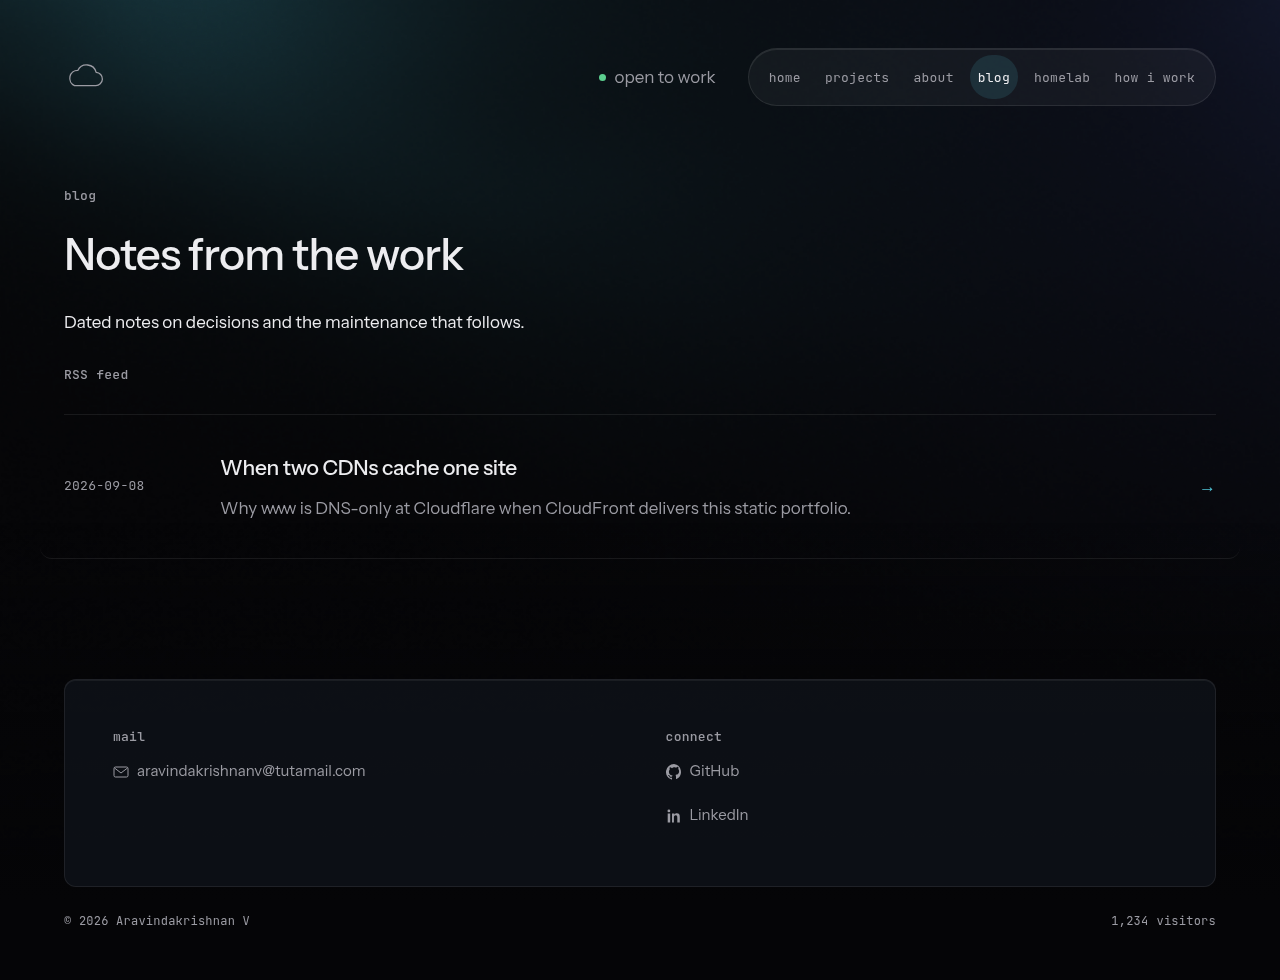
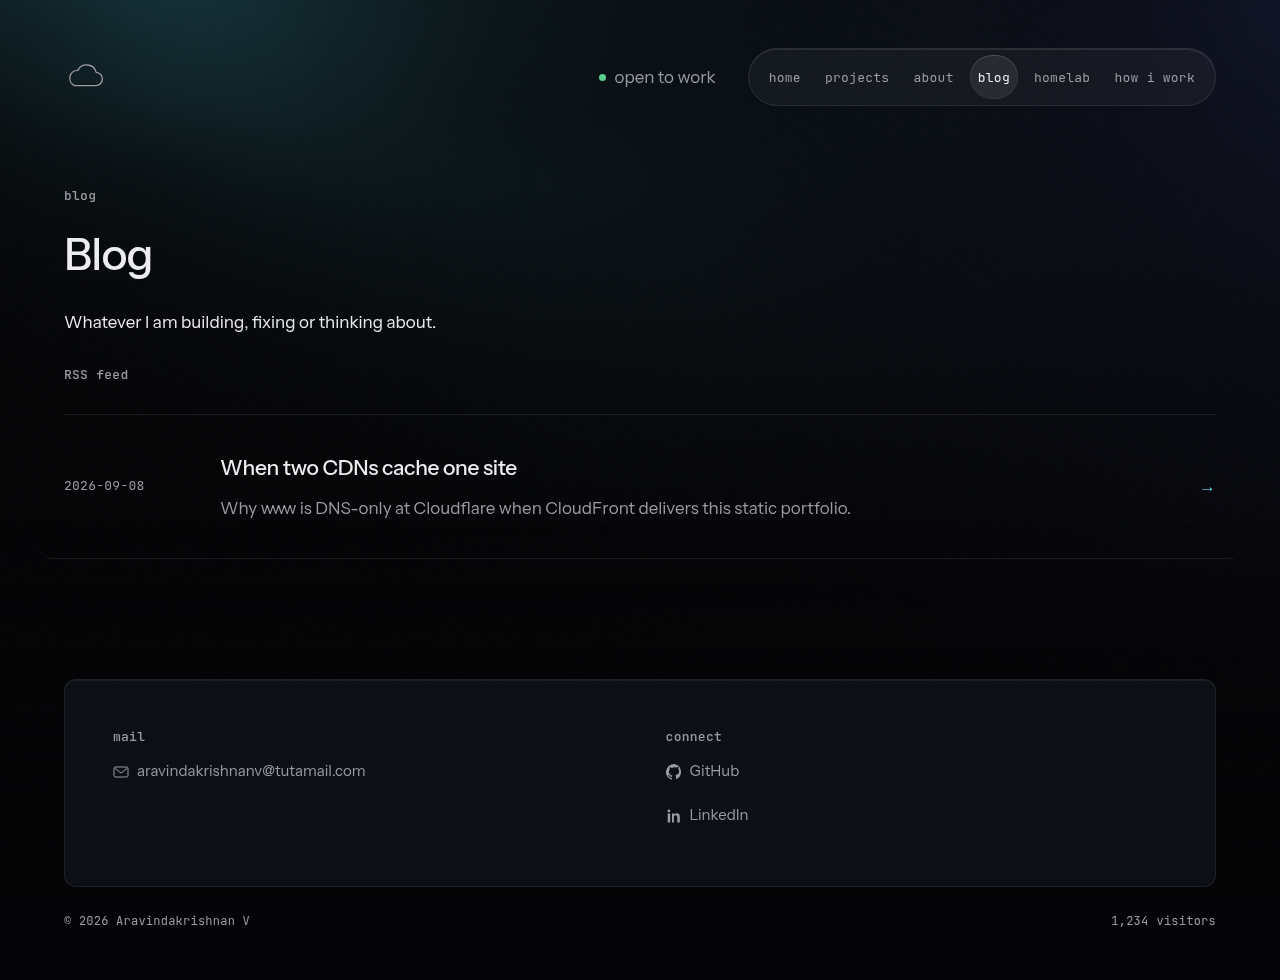
fix(design): restore the ocean glow without WebGL, use glass for the active nav item
- The ocean background is a WebGL shader with no fallback, so browsers
  without WebGL showed flat black. .ocean now carries a static CSS
  picture of the shader's two lights; the canvas paints over it where
  WebGL runs.
- The active nav item and phone menu use a frosted glass highlight
  instead of the blue fill. The menu sheet is glass but 97% opaque, so
  text stays readable where backdrop-filter does not render.
- The blog reads as a blog: Blog on Home and the blog page, a new lede,
  and a matching feed and meta description. Home's section is More.

Changed region(s): [[0.0625, 0.3061, 0.4062, 0.3367], [0.0312, 0.2449, 0.375, 0.2755]]

diff --git a/web/src/styles/global.css b/web/src/styles/global.css
@@ -23,7 +23,12 @@ body {
   z-index: 0;
   overflow: hidden;
   pointer-events: none;
-  background: var(--ink);
+  /* Static picture of the shader's two lights. The WebGL canvas paints over it opaque; without
+     WebGL or JavaScript the canvas stays transparent and this is what visitors see. */
+  background:
+    radial-gradient(70% 60% at 4% -6%, rgba(61, 168, 189, 0.34), transparent 72%),
+    radial-gradient(55% 50% at 100% -4%, rgba(66, 92, 184, 0.2), transparent 70%),
+    var(--ink);
 }
 .ocean canvas,
 .ocean-noise,
@@ -143,7 +148,12 @@ img { max-width: 100%; display: block; }
   padding-inline: 8px;
   color: var(--muted);
 }
-.nav-links a[aria-current="page"] { color: var(--text); background: var(--accent-dim); border-radius: 999px; }
+.nav-links a[aria-current="page"] {
+  color: var(--text);
+  border-radius: 999px;
+  background: rgba(255, 255, 255, 0.08);
+  box-shadow: inset 0 1px 0 rgba(255, 255, 255, 0.12), inset 0 0 0 1px rgba(255, 255, 255, 0.06);
+}
 .nav-links a:hover { color: var(--accent); }
 .status {
   display: inline-flex;
@@ -182,9 +192,12 @@ img { max-width: 100%; display: block; }
   width: min(327px, calc(100vw - 2 * var(--pad)));
   padding: 8px;
   border: 1px solid var(--hairline-strong);
-  border-radius: 12px;
-  background: var(--surface);
-  box-shadow: inset 0 1px 0 rgba(255, 255, 255, 0.06);
+  border-radius: 16px;
+  /* Opaque enough to read without blur: some browsers skip backdrop-filter. */
+  background: rgba(15, 18, 24, 0.97);
+  box-shadow: inset 0 1px 0 rgba(255, 255, 255, 0.09);
+  backdrop-filter: blur(22px) saturate(150%);
+  -webkit-backdrop-filter: blur(22px) saturate(150%);
 }
 .nav-sheet a {
   display: flex;
@@ -196,7 +209,10 @@ img { max-width: 100%; display: block; }
   font-size: 17px;
 }
 .nav-sheet a + a { border-top: 1px solid var(--hairline); }
-.nav-sheet a[aria-current="page"] { background: var(--accent-dim); }
+.nav-sheet a[aria-current="page"] {
+  background: rgba(255, 255, 255, 0.08);
+  box-shadow: inset 0 1px 0 rgba(255, 255, 255, 0.12);
+}
 .nav-sheet a:hover { color: var(--accent-strong); }
 @media (max-width: 680px) {
   .nav { padding-block: 10px; }

diff --git a/web/src/pages/feed.xml.ts b/web/src/pages/feed.xml.ts
@@ -16,6 +16,6 @@ export const GET: APIRoute = async () => {
       return `<item><title>${escapeXml(post.data.title)}</title><link>${link}</link><guid isPermaLink="true">${guid}</guid><description>${escapeXml(post.data.description)}</description><pubDate>${new Date(`${post.data.published}T00:00:00Z`).toUTCString()}</pubDate></item>`;
     })
     .join("");
-  const xml = `<?xml version="1.0" encoding="UTF-8"?><rss version="2.0"><channel><title>Aravindakrishnan V</title><link>${origin}/blog</link><description>Notes on operating cloud infrastructure.</description><atom:link xmlns:atom="http://www.w3.org/2005/Atom" href="${origin}/feed.xml" rel="self" type="application/rss+xml"/>${items}</channel></rss>`;
+  const xml = `<?xml version="1.0" encoding="UTF-8"?><rss version="2.0"><channel><title>Aravindakrishnan V</title><link>${origin}/blog</link><description>Writing by Aravindakrishnan V.</description><atom:link xmlns:atom="http://www.w3.org/2005/Atom" href="${origin}/feed.xml" rel="self" type="application/rss+xml"/>${items}</channel></rss>`;
   return new Response(xml, { headers: { "Content-Type": "application/rss+xml; charset=utf-8" } });
 };

diff --git a/DESIGN.md b/DESIGN.md
@@ -48,7 +48,7 @@ re-verified with a checker before the freeze.
 | `--text` | `#EDEDF0` | headings, body | **17.4:1** on ink |
 | `--muted` | `#9B9BA3` | secondary copy, labels | **7.4:1** on ink · 6.8:1 on surface |
 | `--accent` | `#4FC1D4` | links, active nav, metric emphasis, focus ring | **9.6:1** on ink |
-| `--accent-dim` | `rgba(79,193,212,.14)` | chip fills, selection, active nav item | — |
+| `--accent-dim` | `rgba(79,193,212,.14)` | chip fills, selection | — |
 | `--surface-2` | `#151A22` | hover and pressed rows | structure; muted **6.3:1** on it |
 | `--hairline-strong` | `rgba(255,255,255,.16)` | edges of controls (menu toggle, sheet) | — |
 | `--accent-strong` | `#7FD6E4` | accent on hover | **12.3:1** on ink |
@@ -84,6 +84,10 @@ Rules that make it safe to ship:
 
 Reference implementation: `web/src/components/Ocean.astro`, derived from the approved export.
 
+Fallback: `.ocean` also carries a static CSS picture of the shader's two lights (cyan top-left,
+blue top-right, fading to `--ink`). The WebGL canvas paints over it opaque. Without WebGL or
+JavaScript the canvas stays transparent and visitors see the still glow, never flat black.
+
 ## Type
 
 - **Instrument Sans** — headings, body, UI. **JetBrains Mono** — labels, metrics, paths,
@@ -110,7 +114,7 @@ Reference implementation: `web/src/components/Ocean.astro`, derived from the app
 - Radii: `8px` (chips, small controls), `12px` (cards, panels), `999px` (pills, nav).
 - Cards: `--surface` + 1 px `--hairline`. Elevation is a hairline and a background shift,
   not a drop shadow.
-- Glass, reserved for the nav pill and the phone menu toggle only: `backdrop-filter: blur(22px) saturate(150%)`,
+- Glass, reserved for the nav pill, its active item, the phone menu toggle and sheet: `backdrop-filter: blur(22px) saturate(150%)`,
   `background: rgba(255,255,255,.045)`, 1 px hairline, inset top highlight
   `rgba(255,255,255,.09)`.
 - No gradients on text. No additional background animation beyond the approved ocean layer.
@@ -143,9 +147,11 @@ Reference implementation: `web/src/components/Ocean.astro`, derived from the app
 
 **Nav** — a shell in normal flow (not sticky) with a compact monochrome cloud mark at left;
 availability and the primary links sit right, with the links inside one contained glass pill and
-the current page filled with `--accent-dim`. The same cloud mark is the browser favicon. Visitor
+the current page lifted with a frosted glass highlight (white at 8% with an inset top edge), not a
+colour fill. The same cloud mark is the browser favicon. Visitor
 count belongs in the footer. Below 680 px the bar stays one row: mark, availability and a `menu`
-toggle built on `<details>`, which opens a sheet of 48 px links without JavaScript. Escape does not
+toggle built on `<details>`, which opens a glass sheet of 48 px links without JavaScript. The
+sheet is 97% opaque, so it stays readable where `backdrop-filter` does not render. Escape does not
 close it, because native `<details>` has no such behaviour and no script is added for it.
 
 **Hero** — Home's first screen is for a recruiter and stays simple. The person's full name is
@@ -163,7 +169,7 @@ redesign system.
 compact: the name before " — " and the summary's first sentence, then the arrow. No highlighted
 metric or marketing tagline. The whole row links to its case study. GitHub is a secondary action
 within that detail page; only projects explicitly exempted from case studies may remain unlinked
-or link directly. Home's "More from the work" rows (blog, Homelab, How I work) use the same
+or link directly. Home's "More" rows (Blog, Homelab, How I work) use the same
 shape: title, one line, arrow.
 
 **Case-study section** — fixed order: Problem · Architecture · Decisions and tradeoffs ·

diff --git a/TASKS.md b/TASKS.md
@@ -7,7 +7,14 @@ Branch `feat/simple-home`. Standard: Home template, row component, footer, CSS a
 - [x] Hero: name at `--t-72` (36 px on a 375 px phone, one line), "Cloud engineer." plus one
       sentence, then View projects, Download resume (outline) and email me. Full-width pills on phones.
 - [x] Selected work: compact rows show the short name and the summary's first sentence.
-- [x] "Discover" becomes "More from the work"; the `writing`/`reference` labels are gone.
+- [x] "Discover" becomes "More"; the `writing`/`reference` labels are gone.
+- [x] Ocean background: static CSS fallback of the shader's lights. The in-app browser has no
+      WebGL, so the shader never started and the page was flat black; the same happens wherever
+      WebGL is off. The shader still paints over the fallback where it runs.
+- [x] Active nav item and phone menu use glass (white 8%, inset edge) instead of the blue fill.
+      The sheet is 97% opaque so text never bleeds through where blur does not render.
+- [x] Blog is presented as a blog: Home row and blog page heading "Blog", lede "Whatever I am
+      building, fixing or thinking about."; feed and meta description "Writing by Aravindakrishnan V."
 - [x] Footer: the "Cloud · DevOps · Infrastructure" column is removed on every page.
 - [x] Copy (`home.json`, for author review): role "Cloud engineer"; introduction "I build and
       operate cloud infrastructure on AWS with Terraform, containers and CI/CD."; Homelab line

diff --git a/ROADMAP.md b/ROADMAP.md
@@ -268,10 +268,11 @@ Exit criteria:
 
 **Class:** Standard. "Phase C" in the 2026-11-05 redesign system; author approved the mockup.
 
-Scope: hero name at `--t-72`, one role-led sentence, three actions (projects, resume, email);
-compact project rows with one sentence each; "More from the work" rows without category labels;
-footer loses the role column. Copy changes in `home.json`: role casing, a shorter introduction
-and a plainer Homelab line. No infrastructure.
+Scope: a static CSS fallback for the ocean background when WebGL is unavailable; glass active
+state in the nav and phone menu; hero name at `--t-72`, one role-led sentence, three actions (projects, resume, email);
+compact project rows with one sentence each; "More" rows without category labels;
+footer loses the role column. Copy changes: role casing, a shorter introduction, a plainer
+Homelab line, and the blog presented as a blog ("Blog", not "Notes from the work"). No infrastructure.
 
 Exit criteria:
 - [x] Browser gate passes on all 14 pages; on a 375 px phone the name, sentence and all three actions fit the first screen.
